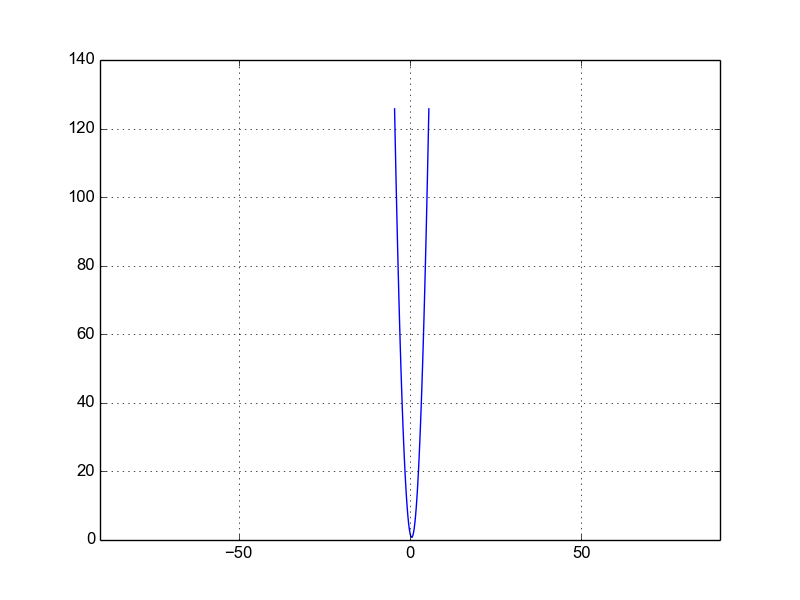
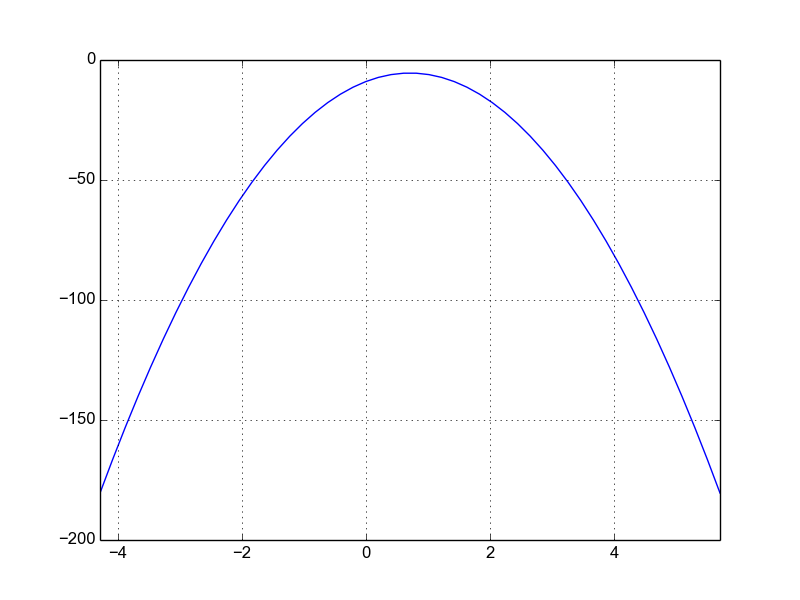
Calculate Extrema

diff --git a/GraphGenerator.py b/GraphGenerator.py
@@ -5,19 +5,29 @@ from pylab import *
 from optparse import OptionParser
 from numpy import *
 from random import *
+from Polynomials import *
 import os
 
 figures = []
 
 def Abs_Extrema(F, Range):
-	DF = Differentiate(F):
-	F_X_Min = Evaluate(F, Range[0])
-	F_X_Max = Evaluate(F, Range[1])
-	Roots = Zeros(F)
+	F_X_Min = F.Evaluate_Self(Range[0])
+	F_X_Max = F.Evaluate_Self(Range[1])
+	Roots = F.Newtons_Method(F)
+	print Roots, 'Root.....'
 	Root_Values = []
-	for Root in Roots:
-		Root_Values.append([Root, Evaluate(F, Root)])
-	
+	for R in Roots:
+		Root_Values.append([R, F.Evaluate_Self(R)])
+	Root_Values.append([Range[0], F_X_Min])
+	Root_Values.append([Range[1], F_X_Max])
+	Abs_Minimum = Root_Values[0][1] 
+	Abs_Maximum = Root_Values[0][1]
+	for Array in Root_Values:
+		if Array[1] < Abs_Minimum:
+			Abs_Minimum = Array[1]
+		if Array[1] > Abs_Maximum:
+			Abs_Maximum = Array[1]
+	return[Abs_Minimum, Abs_Maximum]	
 	
 	
 
@@ -36,13 +46,15 @@ for i in range (0,10):
 	print X_LOW, X_HIGH
 	x = linspace(X_LOW,X_HIGH)
 	y = a*x*x+b*x+c
-	Polynomial = [a,b,c]
-	[Y_LOW, Y_HIGH] = Abs_Extrema(Polynomial)
+	Poly1 = Polynomial(2, [a,b,c])
+	Extrema = Abs_Extrema(Poly1, [X_LOW, X_HIGH])
+	Y_LOW = Extrema[0]
+	Y_HIGH = Extrema[1]
+	print Y_LOW, Y_HIGH, 'Extrema'
 	plot(x,y)
 	xlim(X_LOW, X_HIGH)
-	ylim(Y_LOW, Y_HIGH)
-	axis('equal')
+	#ylim(Y_LOW, Y_HIGH)
 	grid()
 	legend()
-	savefig('foo'+str(i)+'.png')
+	savefig('Images/foo'+str(i)+'.png')
 

diff --git a/Polynomials.py b/Polynomials.py
@@ -27,9 +27,12 @@ from math import *
 
 
 class Polynomial:
-	def __init__(self,order):	
+	def __init__(self,order, coefficients=[]):	
 		self.Order = order
-		self.Coefficients = self.Generate_Random_Coefficients(order)
+		if len(coefficients) == 0:
+			self.Coefficients = self.Generate_Random_Coefficients(order)
+		else:
+			self.Coefficients = coefficients
 		self.Derivative = self.Differentiate(self.Coefficients)
 		self.SecondDerivative = self.Differentiate(self.Derivative)
 
@@ -119,6 +122,11 @@ class Polynomial:
 			
 		return Value
 
+	def Evaluate_Self(self,x):
+		Value = 0
+		for i in range(0,len(self.Coefficients)):
+			Value+=self.Coefficients[i]*(x**i)
+		return Value
 	def Newtons_Method(self, A):
 		Tolerance = 100
 		Roots = []
